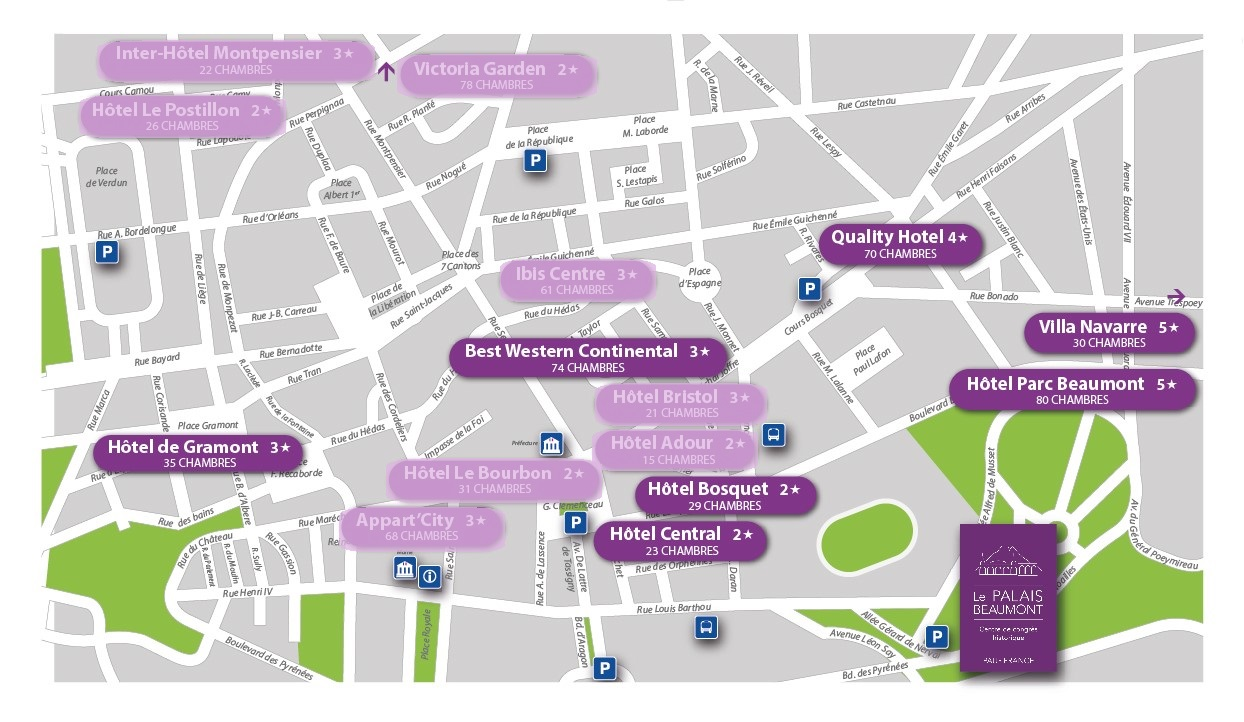
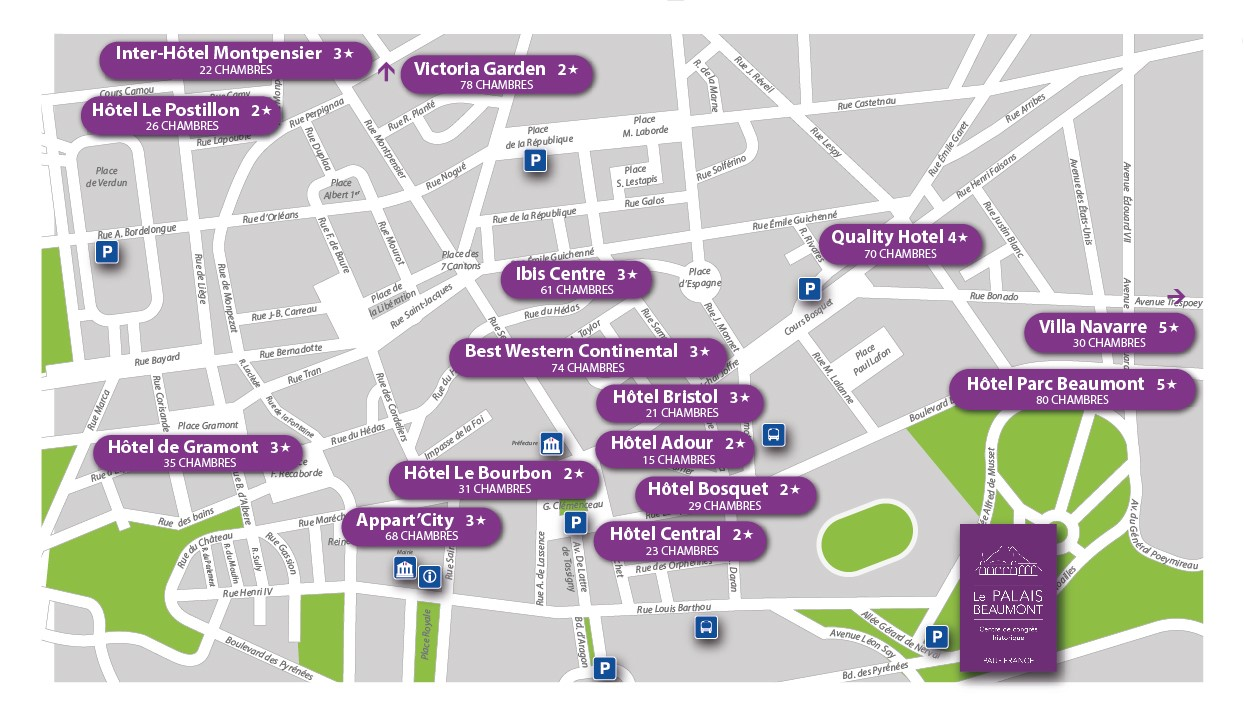
Add hotel links

Changed region(s): [[0.0611, 0.0305, 0.4887, 0.2133], [0.2749, 0.518, 0.6415, 0.7618], [0.3971, 0.3352, 0.5498, 0.4266]]

diff --git a/sac2018/travel.html b/sac2018/travel.html
@@ -141,6 +141,14 @@
                 <area shape="rect" coords="450,339,726,377" href="https://www.bestwestern.fr/en/hotel-Pau-Best-Western-Continental-93090">
                 <area shape="rect" coords="596,521,766,560" href="https://www.hotelscombined.fr/Hotel/Hotel_Central_Pau.htm?languageCode=EN">
                 <area shape="rect" coords="638,478,814,512" href="http://www.hotel-bosquet.com">
+				<area shape="rect" coords="499,261,654,298" href="http://www.ibis.com/fr/hotel-1398-ibis-pau-centre/index.shtml">
+				<area shape="rect" coords="594,385,763,422" href="http://www.hotelbristol-pau.com/">
+				<area shape="rect" coords="594,432,754,467" href="http://www.hotel-adour-pau.com/en.php">
+				<area shape="rect" coords="390,461,598,498" href="https://www.hotel-lebourbon.com/en/">
+				<area shape="rect" coords="340,506,501,544" href="https://www.appartcity.com/en/">
+				<area shape="rect" coords="81,95,279,133" href="http://www.hotel-le-postillon.com/">
+				<area shape="rect" coords="101,41,372,77" href="http://www.hotel-montpensier-pau.com/en_index.php?PHPSESSID=28fc337567ebe57bd71c024e840cb048">
+				<area shape="rect" coords="402,55,593,92" href="https://www.victoriagarden.com/hotels/victoria-garden-pau/">
             </map>
 
             <h4>5 Stars Hotels</h4>
